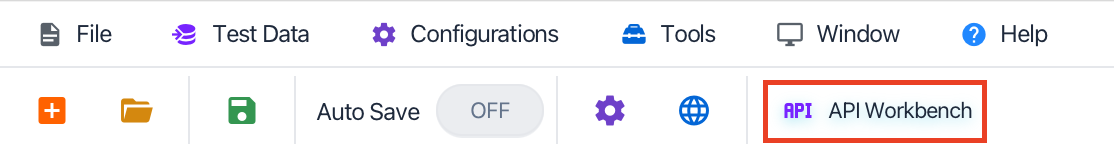
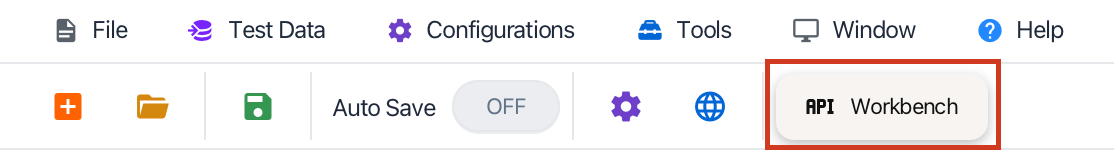
Add API Environment management documentation (#69)
* Add API Env management

* Add documentation for converting API requests to INGenious test cases

* Update docs/api/apiworkbench.md

* Update docs/api/apiworkbench.md

* API Env Management revisions

* Update docs/api/apiworkbench.md

* Update docs/api/apiworkbench.md

* Update docs/api/apiworkbench.md

* Update apiworkbench.md

* Update apiworkbench.md

* Update screenshot

* Update APIWorkbenchExample.png

* Update apiworkbench.md

---------

diff --git a/docs/api/apiworkbench.md b/docs/api/apiworkbench.md
@@ -13,6 +13,9 @@ Once selected, you will be navigated to API Workbench window. See example below:
 
 ![APIWorkbenchExample](../img/api/APIWorkbenchExample.png "APIWorkbenchExample")
 
+!!! tip ""
+    The numbered areas highlighted in the image above are explained in the sections below. Use the tabs to explore the purpose and functionality of each part of the API Workbench.
+
 === ":one: Collection/Requests Pane"
       This is where the Collections and Requests are created and organized. Every `Collection` in the INGenious IDE , is a JSON file in the backend.
 
@@ -63,4 +66,69 @@ Once selected, you will be navigated to API Workbench window. See example below:
 
 === ":three: Response Body Pane"
 
-      This is section displays the API response content in a formatted (Pretty) or raw view, allowing you to easily inspect, copy, and analyze returned data for validation and troubleshooting.
+      This section displays the API response content in a formatted (Pretty) or raw view, allowing you to easily inspect, copy, and analyze returned data for validation and troubleshooting.
+
+=== ":four: API Environments"
+
+      API Environments allow you to store reusable variables for different testing contexts such as Development, QA, Staging, or Production. This enables the same API request to be reused across multiple environments without manually changing values such as URLs, tokens, usernames, passwords, proxy settings, or certificate paths.
+
+      The **Environment Dropdown** allows you to switch between environments. To open the **Environment Configuration Window** click **Configure**.
+
+      ![APIEnvironmentDropdown](../img/api/APIEnvironmentDropdown.png "APIEnvironmentDropdown")
+
+      The Environment Configuration Window displays all available environments and provides several actions:
+
+      * **+ New** – Create a new environment.
+      * **Rename** – Change the name of the selected environment.
+      * **Duplicate** – Create a copy of the selected environment, including all configured variables.
+      * **Delete** – Remove the selected environment.
+
+      ![APIEnvironmentActions](../img/api/APIEnvironmentActions.png "APIEnvironmentActions")
+
+      **Environment Variable Configuration**
+
+      Variables are configured by entering a **Name** and **Value**. The **Secret** option can be enabled for sensitive information such as passwords, tokens, and API keys. Secret values are masked in the UI and are not displayed in plain text. After adding or updating variables, click **Save** to persist the environment configuration.
+
+      ![APIEnvironmentVariables](../img/api/APIEnvironmentVariables.png "APIEnvironmentVariables")
+
+      Variables can be referenced throughout API requests using double curly braces:
+
+      ```text
+      {{variableName}}
+      ```
+
+      For example:
+
+      ```text
+      {{baseUrl}}/users
+      ```
+
+      ![APIEnvironmentRequestExample](../img/api/APIEnvironmentRequestExample.png "APIEnvironmentRequestExample")
+
+      When a request is executed, all referenced variables are automatically resolved using the currently selected environment. Switching to a different environment allows the same request to be executed against a different set of values without modifying the request itself. If a referenced variable does not exist in the active environment, the request execution may fail or use the unresolved placeholder value.
+
+      **Best Practice**
+
+      Store environment-specific values such as URLs, credentials, API keys, and tokens as environment variables instead of hardcoding them in requests. This improves maintainability and portability.
+
+=== ":five: Convert API Request to Test Case"
+
+      API requests can be converted directly into INGenious test cases, allowing API validations to be incorporated into automated test suites with minimal effort.
+
+      During conversion, all configured request details are preserved, including:
+
+      * Endpoint URL and query parameters
+      * Request headers
+      * Authentication settings (Basic Auth, Bearer Token, and API Keys)
+      * Request body
+      * Assertions
+
+      If the request contains environment variables (for example `{{baseUrl}}` or `{{token}}`), the values are resolved using the **currently active environment** during conversion. Literal values that do not reference environment variables are copied directly into the generated test case.
+
+      The original API request is not modified. Variable placeholders are retained in the collection, while the generated test case receives the resolved values.
+
+      **Converted Test Case Example (Basic Authentication)**
+
+      ![APIRequestToTestCase](../img/api/APIRequestToTestCase.png "APIRequestToTestCase")
+
+      The generated test case performs the same API call as the API Workbench request and can be executed within INGenious to validate the expected response and assertions.
